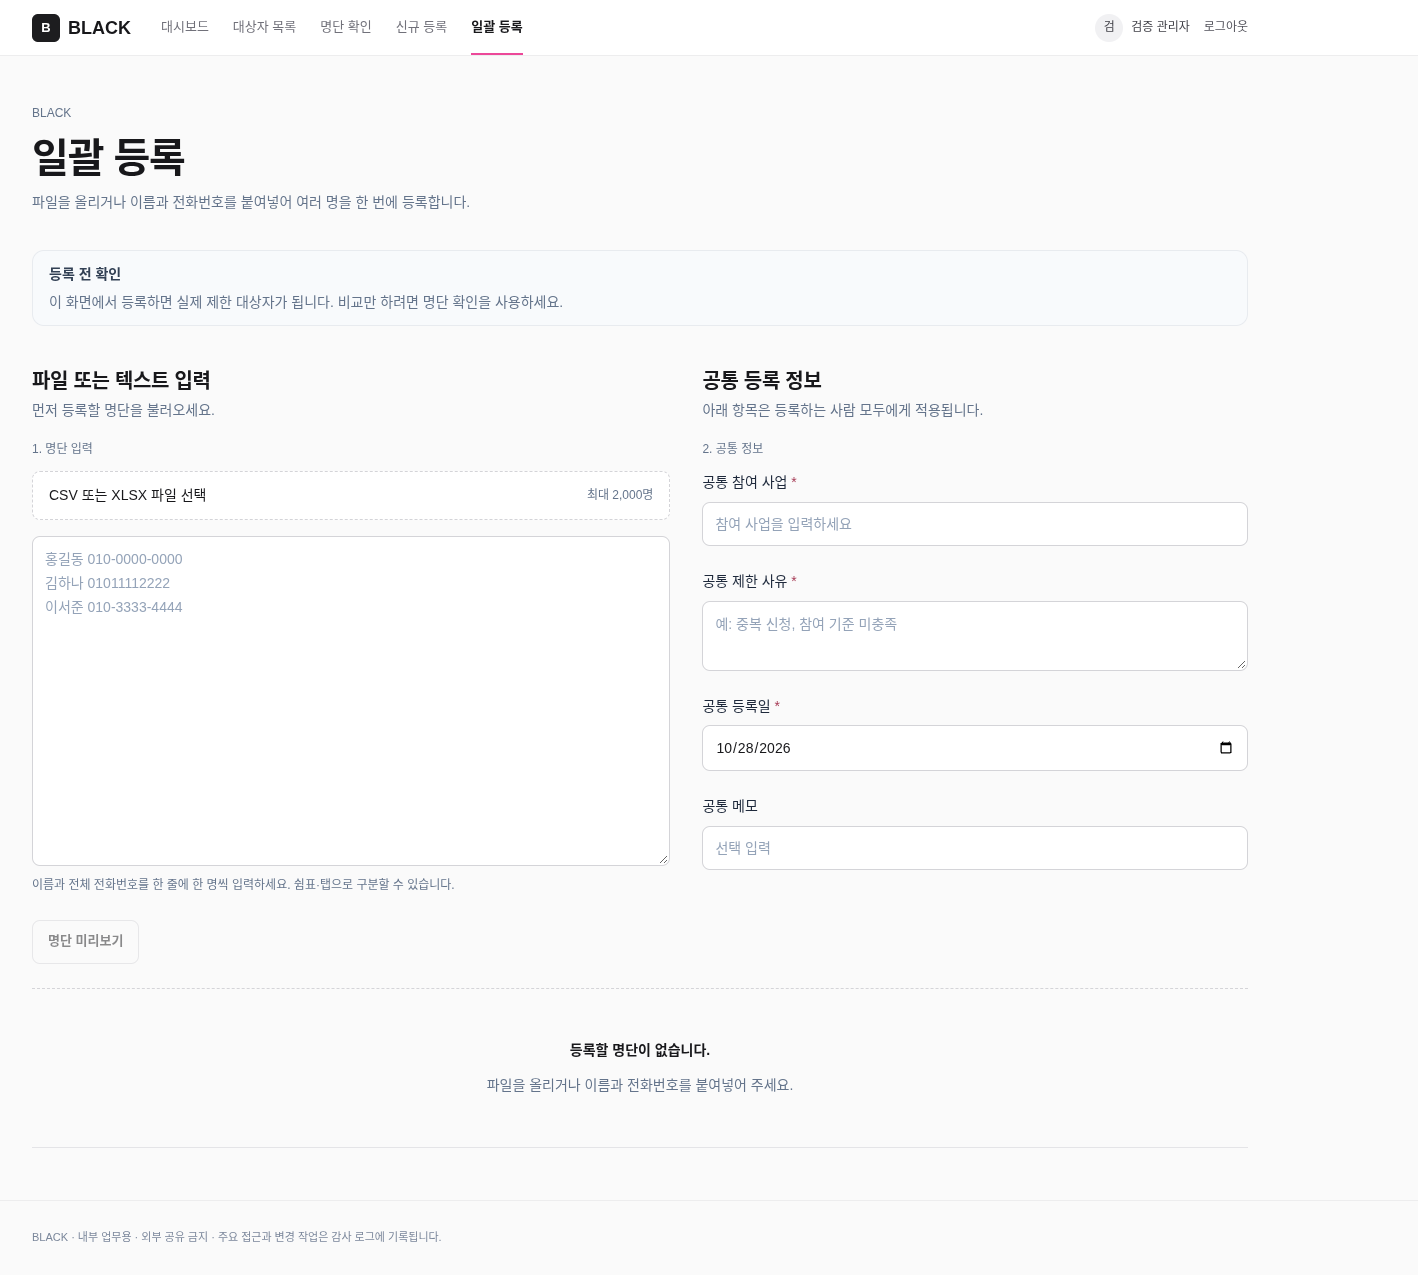
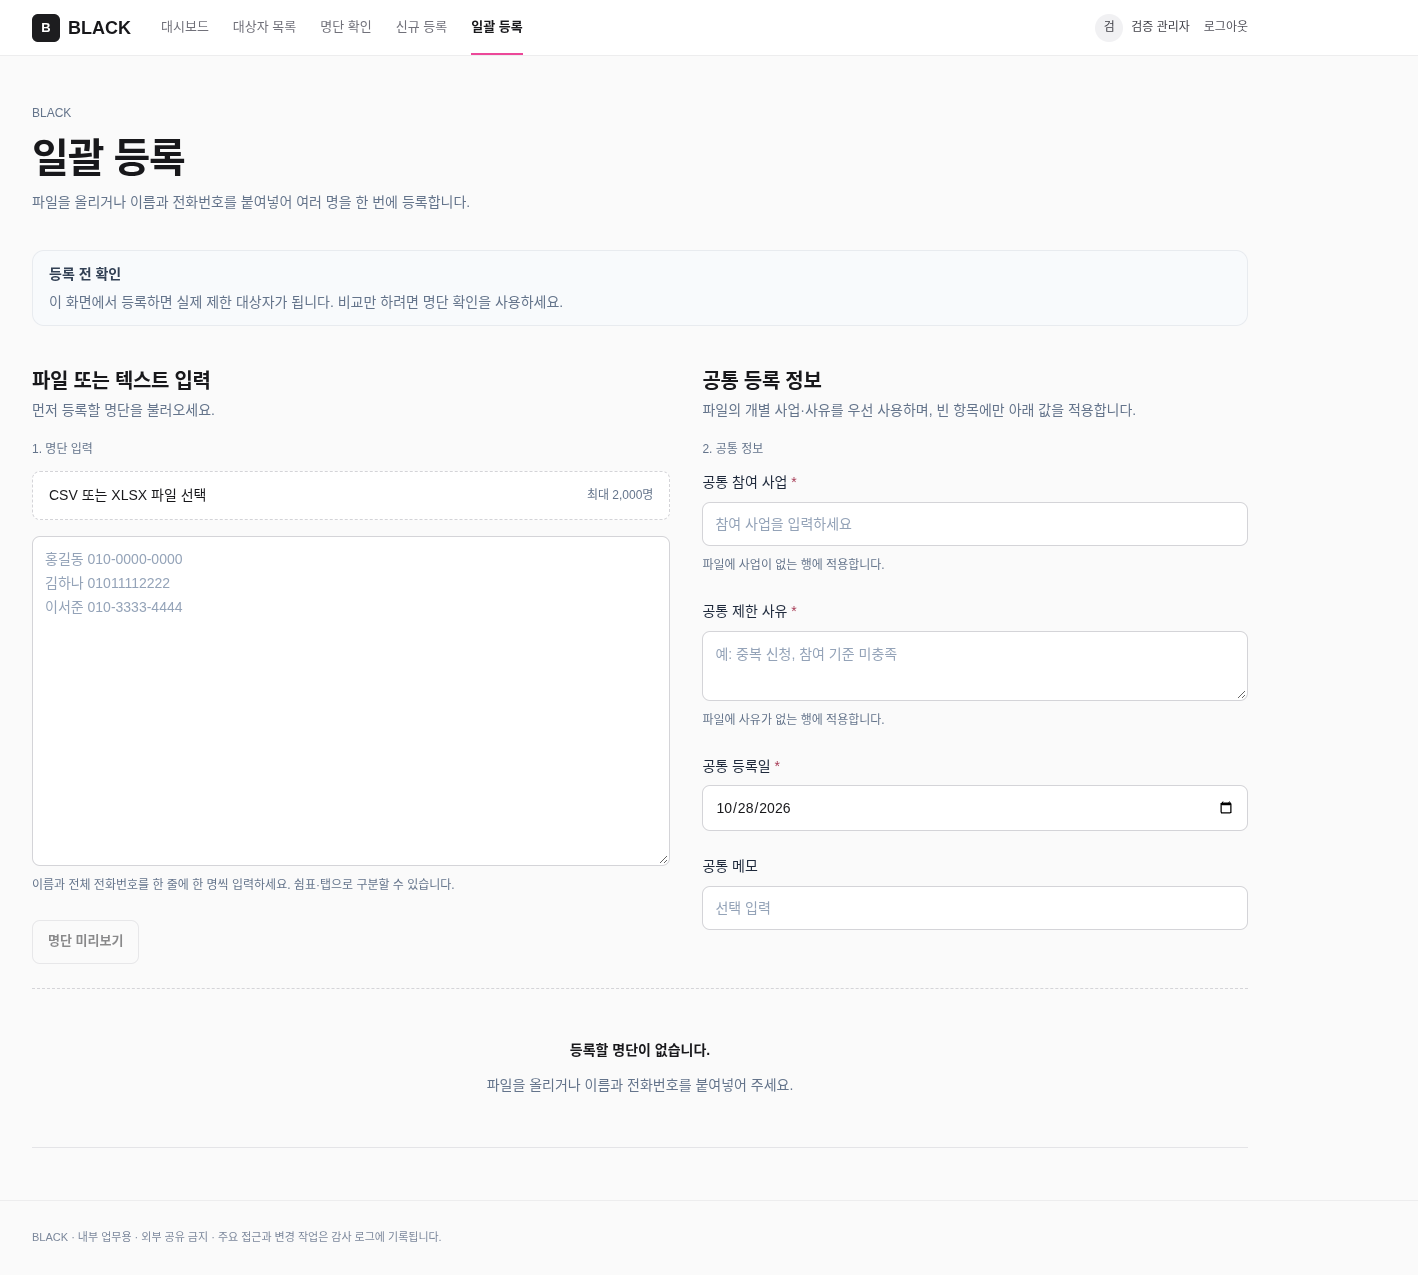
fix: preserve rich roster fields and export validated import workbook

Changed region(s): [[0.4965, 0.5506, 0.6206, 0.7341], [0.4965, 0.4282, 0.6206, 0.52], [0.4965, 0.3059, 0.7757, 0.3365]]

diff --git a/src/roster-page.jsx b/src/roster-page.jsx
@@ -6,32 +6,33 @@ export default function Roster({mode, go}) {
   const bulk = mode === 'bulk';
   const [tab, setTab] = useState('file'), [text, setText] = useState(''), [fileName, setFileName] = useState('');
   const [preview, setPreview] = useState([]), [error, setError] = useState(''), [busy, setBusy] = useState(false);
+  const [rowErrors, setRowErrors] = useState([]);
   const [results, setResults] = useState(null), [filter, setFilter] = useState('전체');
   const [common, setCommon] = useState({programName: '', reason: '', registeredAt: dateInput(), memo: ''});
   const generation = useRef(0);
   useEffect(() => () => {generation.current++;}, []);
 
-  function invalidateInput() {generation.current++; setPreview([]); setResults(null); setBusy(false); setError(''); setFileName('');}
+  function invalidateInput() {generation.current++; setPreview([]); setRowErrors([]); setResults(null); setBusy(false); setError(''); setFileName('');}
   function switchTab(next) {invalidateInput(); setTab(next);}
   async function loadFile(file) {
     if (!file) return;
     const request = ++generation.current;
-    setBusy(true); setError(''); setPreview([]); setResults(null); setFileName('');
+    setBusy(true); setError(''); setPreview([]); setRowErrors([]); setResults(null); setFileName('');
     try {
-      const {readRosterFile} = await import('./roster.mjs');
-      const rows = await readRosterFile(file);
+      const {readRosterFileDetailed} = await import('./roster.mjs');
+      const {rows, errors} = await readRosterFileDetailed(file);
       if (request !== generation.current) return;
-      setPreview(rows); setFileName(file.name);
+      setPreview(rows); setRowErrors(errors); setFileName(file.name);
     } catch (e) {if (request === generation.current) setError(e.message);}
     finally {if (request === generation.current) setBusy(false);}
   }
   async function parse() {
     const request = ++generation.current;
-    setError(''); setBusy(true); setPreview([]); setResults(null);
+    setError(''); setBusy(true); setPreview([]); setRowErrors([]); setResults(null);
     try {
-      const {parseRosterText} = await import('./roster.mjs');
-      const rows = parseRosterText(text);
-      if (request === generation.current) setPreview(rows);
+      const {parseRosterTextDetailed} = await import('./roster.mjs');
+      const {rows, errors} = parseRosterTextDetailed(text);
+      if (request === generation.current) {setPreview(rows); setRowErrors(errors);}
     } catch (e) {if (request === generation.current) setError(e.message);}
     finally {if (request === generation.current) setBusy(false);}
   }
@@ -41,7 +42,9 @@ export default function Roster({mode, go}) {
     setBusy(true); setError('');
     try {
       if (bulk) {
-        const data = await api('/bulk', {method: 'POST', body: {rows: preview.map(row => ({...row, ...common}))}});
+        const {mergeBulkRow}=await import('./roster.mjs');
+        const rows=preview.map((row,index)=>{try{return mergeBulkRow(row,common);}catch(error){throw new Error(`${index+1}행: ${error.message}`);}});
+        const data = await api('/bulk', {method: 'POST', body: {rows}});
         go('/people', `${data.count}명의 대상자를 등록했습니다.`);
       } else {
         const data = await api('/compare', {method: 'POST', body: {rows: preview}});
@@ -66,6 +69,8 @@ export default function Roster({mode, go}) {
     <button type="button" className="button" onClick={parse} disabled={busy || !text.trim()}>명단 미리보기</button>
   </>;
   const visible = results && (filter === '전체' ? results : results.filter(row => row.status === filter));
+  const needsProgram = !preview.length || preview.some(row => !row.programName);
+  const needsReason = !preview.length || preview.some(row => !row.reason);
 
   return <>
     <Heading title={bulk ? '일괄 등록' : '명단 확인'} description={bulk ? '파일을 올리거나 이름과 전화번호를 붙여넣어 여러 명을 한 번에 등록합니다.' : '신청자 명단은 저장하지 않습니다. 기존 제한 이력과 비교한 결과만 보여줍니다.'}/>
@@ -79,18 +84,19 @@ export default function Roster({mode, go}) {
           {bulk ? <><label className="compact-file" htmlFor="roster-file"><strong>{fileName || 'CSV 또는 XLSX 파일 선택'}</strong><span>최대 2,000명</span></label>{textInput}</> : tab === 'file' ? <label className="dropzone" htmlFor="roster-file" onDragOver={e => e.preventDefault()} onDrop={e => {e.preventDefault(); loadFile(e.dataTransfer.files[0]);}}><strong>신청자 명단 파일 선택</strong><p>{fileName || 'CSV 또는 XLSX 파일을 올리면 이름과 전화번호 열을 읽습니다. 올린 파일은 저장하지 않습니다.'}</p><span className="button primary file-button">파일 선택</span><small>XLSX · CSV · TSV · TXT / 최대 10MB, 2,000명</small></label> : <div className="text-input-area">{textInput}</div>}
           {busy && !results && <p className="processing-status" role="status">명단을 처리하고 있습니다…</p>}
         </section>
-        {bulk && <section className="common-fields"><h2>공통 등록 정보</h2><p className="section-description">아래 항목은 등록하는 사람 모두에게 적용됩니다.</p><div className="workflow-step"><span>2. 공통 정보</span></div>
-          <Field label="공통 참여 사업" required><input required maxLength={200} value={common.programName} onChange={e => setCommon({...common, programName: e.target.value})} placeholder="참여 사업을 입력하세요"/></Field>
-          <Field label="공통 제한 사유" required><textarea required rows={2} maxLength={2000} value={common.reason} onChange={e => setCommon({...common, reason: e.target.value})} placeholder="예: 중복 신청, 참여 기준 미충족"/></Field>
+        {bulk && <section className="common-fields"><h2>공통 등록 정보</h2><p className="section-description">파일의 개별 사업·사유를 우선 사용하며, 빈 항목에만 아래 값을 적용합니다.</p><div className="workflow-step"><span>2. 공통 정보</span></div>
+          <Field label="공통 참여 사업" required={needsProgram} hint={needsProgram?'파일에 사업이 없는 행에 적용합니다.':'모든 행에 개별 사업이 있습니다. 공통값은 비워도 됩니다.'}><input required={needsProgram} maxLength={200} value={common.programName} onChange={e => setCommon({...common, programName: e.target.value})} placeholder="참여 사업을 입력하세요"/></Field>
+          <Field label="공통 제한 사유" required={needsReason} hint={needsReason?'파일에 사유가 없는 행에 적용합니다.':'모든 행에 개별 사유가 있습니다. 공통값은 비워도 됩니다.'}><textarea required={needsReason} rows={2} maxLength={2000} value={common.reason} onChange={e => setCommon({...common, reason: e.target.value})} placeholder="예: 중복 신청, 참여 기준 미충족"/></Field>
           <Field label="공통 등록일" required><input required type="date" value={common.registeredAt} onChange={e => setCommon({...common, registeredAt: e.target.value})}/></Field>
           <Field label="공통 메모"><input maxLength={4000} value={common.memo} onChange={e => setCommon({...common, memo: e.target.value})} placeholder="선택 입력"/></Field>
         </section>}
       </div>
       <Alert>{error}</Alert>
+      {rowErrors.length>0&&<div className="row-error-notice" role="alert"><strong>확인 필요 {rowErrors.length}행 — 오류가 있는 행은 처리 대상에서 제외됩니다.</strong><ul>{rowErrors.slice(0,10).map(issue=><li key={issue.row}>{issue.message}</li>)}</ul>{rowErrors.length>10&&<p>외 {rowErrors.length-10}행. 원본의 번호를 보완한 뒤 다시 올려 주세요.</p>}</div>}
       {preview.length > 0 ? <>
         <div className="workflow-step preview-step"><span>{bulk ? '3. 등록 내용 확인' : '2. 입력 내용 확인'}</span><p>미리보기의 이름과 전화번호를 확인한 후 진행하세요.</p></div>
-        <section className="panel preview-panel"><div className="panel-heading"><div><h2>명단 미리보기</h2><p>정상 {preview.length}건 · 오류 0건</p></div><button className="button primary" disabled={busy}>{busy ? '처리 중…' : bulk ? `${preview.length}명 일괄 등록` : '기존 이력과 비교'}</button></div>
-          <div className="table-scroll preview-table"><table><thead><tr><th>상태</th><th>이름</th><th>전화번호</th><th>신청사업</th></tr></thead><tbody>{preview.slice(0, 100).map((row, i) => <tr key={i}><td><Badge>정상</Badge></td><td><strong>{row.name}</strong></td><td className="phone-cell">{row.phone}</td><td className="muted">{bulk ? common.programName || '-' : '-'}</td></tr>)}</tbody></table></div>
+        <section className={'panel preview-panel '+(bulk?'bulk-preview':'')}><div className="panel-heading"><div><h2>명단 미리보기</h2><p>정상 {preview.length}건 · 오류 {rowErrors.length}건</p></div><button className="button primary" disabled={busy}>{busy ? '처리 중…' : bulk ? `${preview.length}명 일괄 등록` : '기존 이력과 비교'}</button></div>
+          <div className="table-scroll preview-table"><table><thead><tr><th>상태</th><th>이름</th><th>전화번호</th><th>{bulk?'참여 사업':'신청사업'}</th>{bulk&&<><th>제한 사유</th><th>내부 메모</th></>}</tr></thead><tbody>{preview.slice(0, 100).map((row, i) => <tr key={i}><td><Badge>정상</Badge></td><td><strong>{row.name}</strong></td><td className="phone-cell">{row.phone}</td><td className="muted">{row.programName || (bulk ? common.programName || '-' : '-')}</td>{bulk&&<><td>{row.reason||common.reason||'-'}</td><td className="muted memo-preview">{[row.memo,common.memo].filter(Boolean).join('\n')||'-'}</td></>}</tr>)}</tbody></table></div>
           {preview.length > 100 && <p className="preview-note">미리보기는 처음 100명입니다. 전체 {preview.length}명을 처리합니다.</p>}
         </section>
       </> : <section className="roster-empty"><Empty title={bulk ? '등록할 명단이 없습니다.' : '확인할 명단이 없습니다.'} description="파일을 올리거나 이름과 전화번호를 붙여넣어 주세요."/></section>}

diff --git a/src/styles.css b/src/styles.css
@@ -182,6 +182,16 @@ textarea {resize: vertical; line-height: 24px;}
 .preview-table th:nth-child(2) {width: 23%;}
 .preview-table th:nth-child(3) {width: 38%;}
 .preview-note {font-size: 12px; color: #64748b; padding: 12px 15px;}
+.bulk-preview table {min-width: 1000px;}
+.bulk-preview th:first-child {width: 8%;}
+.bulk-preview th:nth-child(2) {width: 12%;}
+.bulk-preview th:nth-child(3) {width: 17%;}
+.bulk-preview th:nth-child(4) {width: 18%;}
+.bulk-preview th:nth-child(5) {width: 23%;}
+.memo-preview {white-space: pre-line; font-size: 12px;}
+.row-error-notice {border: 1px solid #f3d49c; background: #fffbeb; border-radius: 8px; padding: 14px 16px; color: #92400e; font-size: 13px; margin-top: 20px;}
+.row-error-notice strong {font-weight: 600;}
+.row-error-notice ul {margin: 8px 0 0; padding-left: 20px;}
 .comparison-results {margin-top: 24px;}
 .comparison-results .notice-box {margin-bottom: 24px;}
 .result-actions {display: flex; align-items: center; gap: 12px;}

diff --git a/README.md b/README.md
@@ -49,7 +49,8 @@
 - 신규 등록·수정: 이름, 전체 전화번호, 사업, 등록일, 사유, 메모. 수정 충돌·동일 이름/전화/사업 중복 방지.
 - 명단 확인: XLSX/CSV/TSV/TXT 업로드 또는 텍스트 입력 → 미리보기 → 비교 → 결과 XLSX. 최대 2000명/10MB, XLSX 첫 시트만 읽습니다. 수식 셀은 거부합니다.
 - 비교: 이름과 전체 전화번호 모두 같으면 **일치**, 둘 중 하나만 같으면 **확인 필요**, 둘 다 다르면 **미등록**. 삭제된 이력은 비교에서 제외합니다. 실제 업무 규칙을 확인할 수 없어 이 기준은 재구현 시 정한 규칙입니다. 명단 비교는 대상자를 자동 등록하지 않습니다.
-- 일괄 등록: 입력한 명단 전체에 공통 사업·사유·날짜·메모 적용. 오류나 중복이 하나라도 있으면 전체 취소합니다.
+- 일괄 등록: 입력한 명단 파일의 개별 사업·사유를 우선 사용하고 빈 항목에 공통값을 적용합니다. 실제 등록 중 오류나 중복이 있으면 전체 취소합니다.
+- 명단 인식 보완: XLSX/CSV/TSV의 `참여 사업`, `제한 사유`, `내부 메모`, `지역` 열을 보존합니다. 파일의 개별 사업·사유가 공통값보다 우선하고, 공통 메모는 개별 메모에 추가합니다. 앞자리 0을 잃은 10자리 휴대전화 문자열도 보정합니다. Markdown 표와 이름에 번호가 붙은 텍스트도 읽습니다. 번호가 없는 행은 경고와 원문 행 번호를 보여 주고 처리에서 제외합니다. 정상 행만 등록/비교하며, 실제 등록 트랜잭션은 기존처럼 전체 성공 또는 전체 취소입니다. 서로 다른 행의 전화번호를 이름만 보고 채우지 않습니다.
 - 관리자: 직원 추가·권한/비밀번호 변경·비활성화, 대상자 사유부 삭제, 활동 기록. 직원은 조회·등록·수정 가능. 원본 권한 정책이 없으므로 이 정책은 재구현의 보수적인 기본값입니다.
 - 비밀번호 변경, 로그인 시도 제한, CSRF 방어, DB 저장 세션, HttpOnly/SameSite 쿠키. 세션 만료는 원본 환경 설정을 사용합니다.
 - 전화번호는 원본 AES-256-GCM 데이터와 호환되며 신규 데이터도 암호화합니다. 목록에는 마스킹 번호를 표시하고 전체 번호 조회를 기록합니다. 감사 로그 화면에는 개인정보 원문 스냅샷을 표시하지 않습니다.

diff --git a/docs/progress.md b/docs/progress.md
@@ -19,3 +19,7 @@ Configuration: install_script and start_skill saved as a draft; not published. F
 Packaging: source and built UI only; private files, user records, database files and secret values excluded and scanned. Original backups remain unchanged. Synthetic-account screenshots are included in docs/images.
 
 2026-10-28 original design restoration: user supplied seven original screenshots. Replaced reconstructed green sidebar/art with original monochrome horizontal layout, flat tables, two-column login/bulk and inline comparison results. No backend/dependency/DB changes. Plan: docs/superpowers/plans/2026-10-28-original-design.md. Visual evidence: docs/images/original-tone; QA: design-qa.md. Backend/unit/update suite 15/15; browser suite 4/4. A fresh reviewer found no material issues; file re-selection refinement fixed RED→GREEN. UI-only installer validates all checksums before writing, backs up old UI, preserves old hashed assets, writes HTML last and is idempotent. Actual extracted update applied to an installed app copy with data/private/server hashes unchanged. User Windows execution still requires applying the update there.
+
+2026-10-28 rich roster import: preserve named program/reason/memo/district/date columns, normalize leading-zero loss in mobile strings, accept Markdown and headerless rich text, expose invalid row numbers and exclude them visibly instead of failing the entire file. Common program/reason fills blanks only; per-row memo is retained and common memo appended. API remains unchanged. Tests observed failing before implementation; full suite 17/17 and browser suite 5/5 passed including persisted per-row values and missing-phone exclusion. Actual user spreadsheet generated separately outside the repository; private inputs/scripts and spreadsheet must never be included in source/update ZIPs. No actual records were inserted by the agent. The workbook was reopened with ExcelJS and all ready rows passed parser and backend validation, with no duplicate registration keys.
+
+Rich import review follow-up: rejected malformed optional dates/oversized fields during input parsing; checked combined memo length before API submission; preserved space-separated phones and commas within free-text reasons. All regression tests were observed RED→GREEN. Final unit/API suite 19/19 and browser suite 5/5. Personal workbook remains outside source/update packages.

diff --git a/design-qa.md b/design-qa.md
@@ -2,6 +2,8 @@
 
 **final result: passed**
 
+Rich-import follow-up: individual program/reason/memo fields now appear in bulk preview, common-field hints accurately explain fallback precedence, and invalid-row warnings are visible. Existing monochrome tokens and layout are retained. Full unit/API suite 19/19 and browser suite 5/5 passed, with no console errors in the design capture test. Current screenshots were regenerated using synthetic fixtures; no provided personal roster data was used for browser capture.
+
 Scope is the user's request to restore the supplied original visual tone across the existing functional app. This is a production UI update, not a new hosted prototype. No Sites deployment or new data migration was requested.
 
 ## Visual truth and captures
